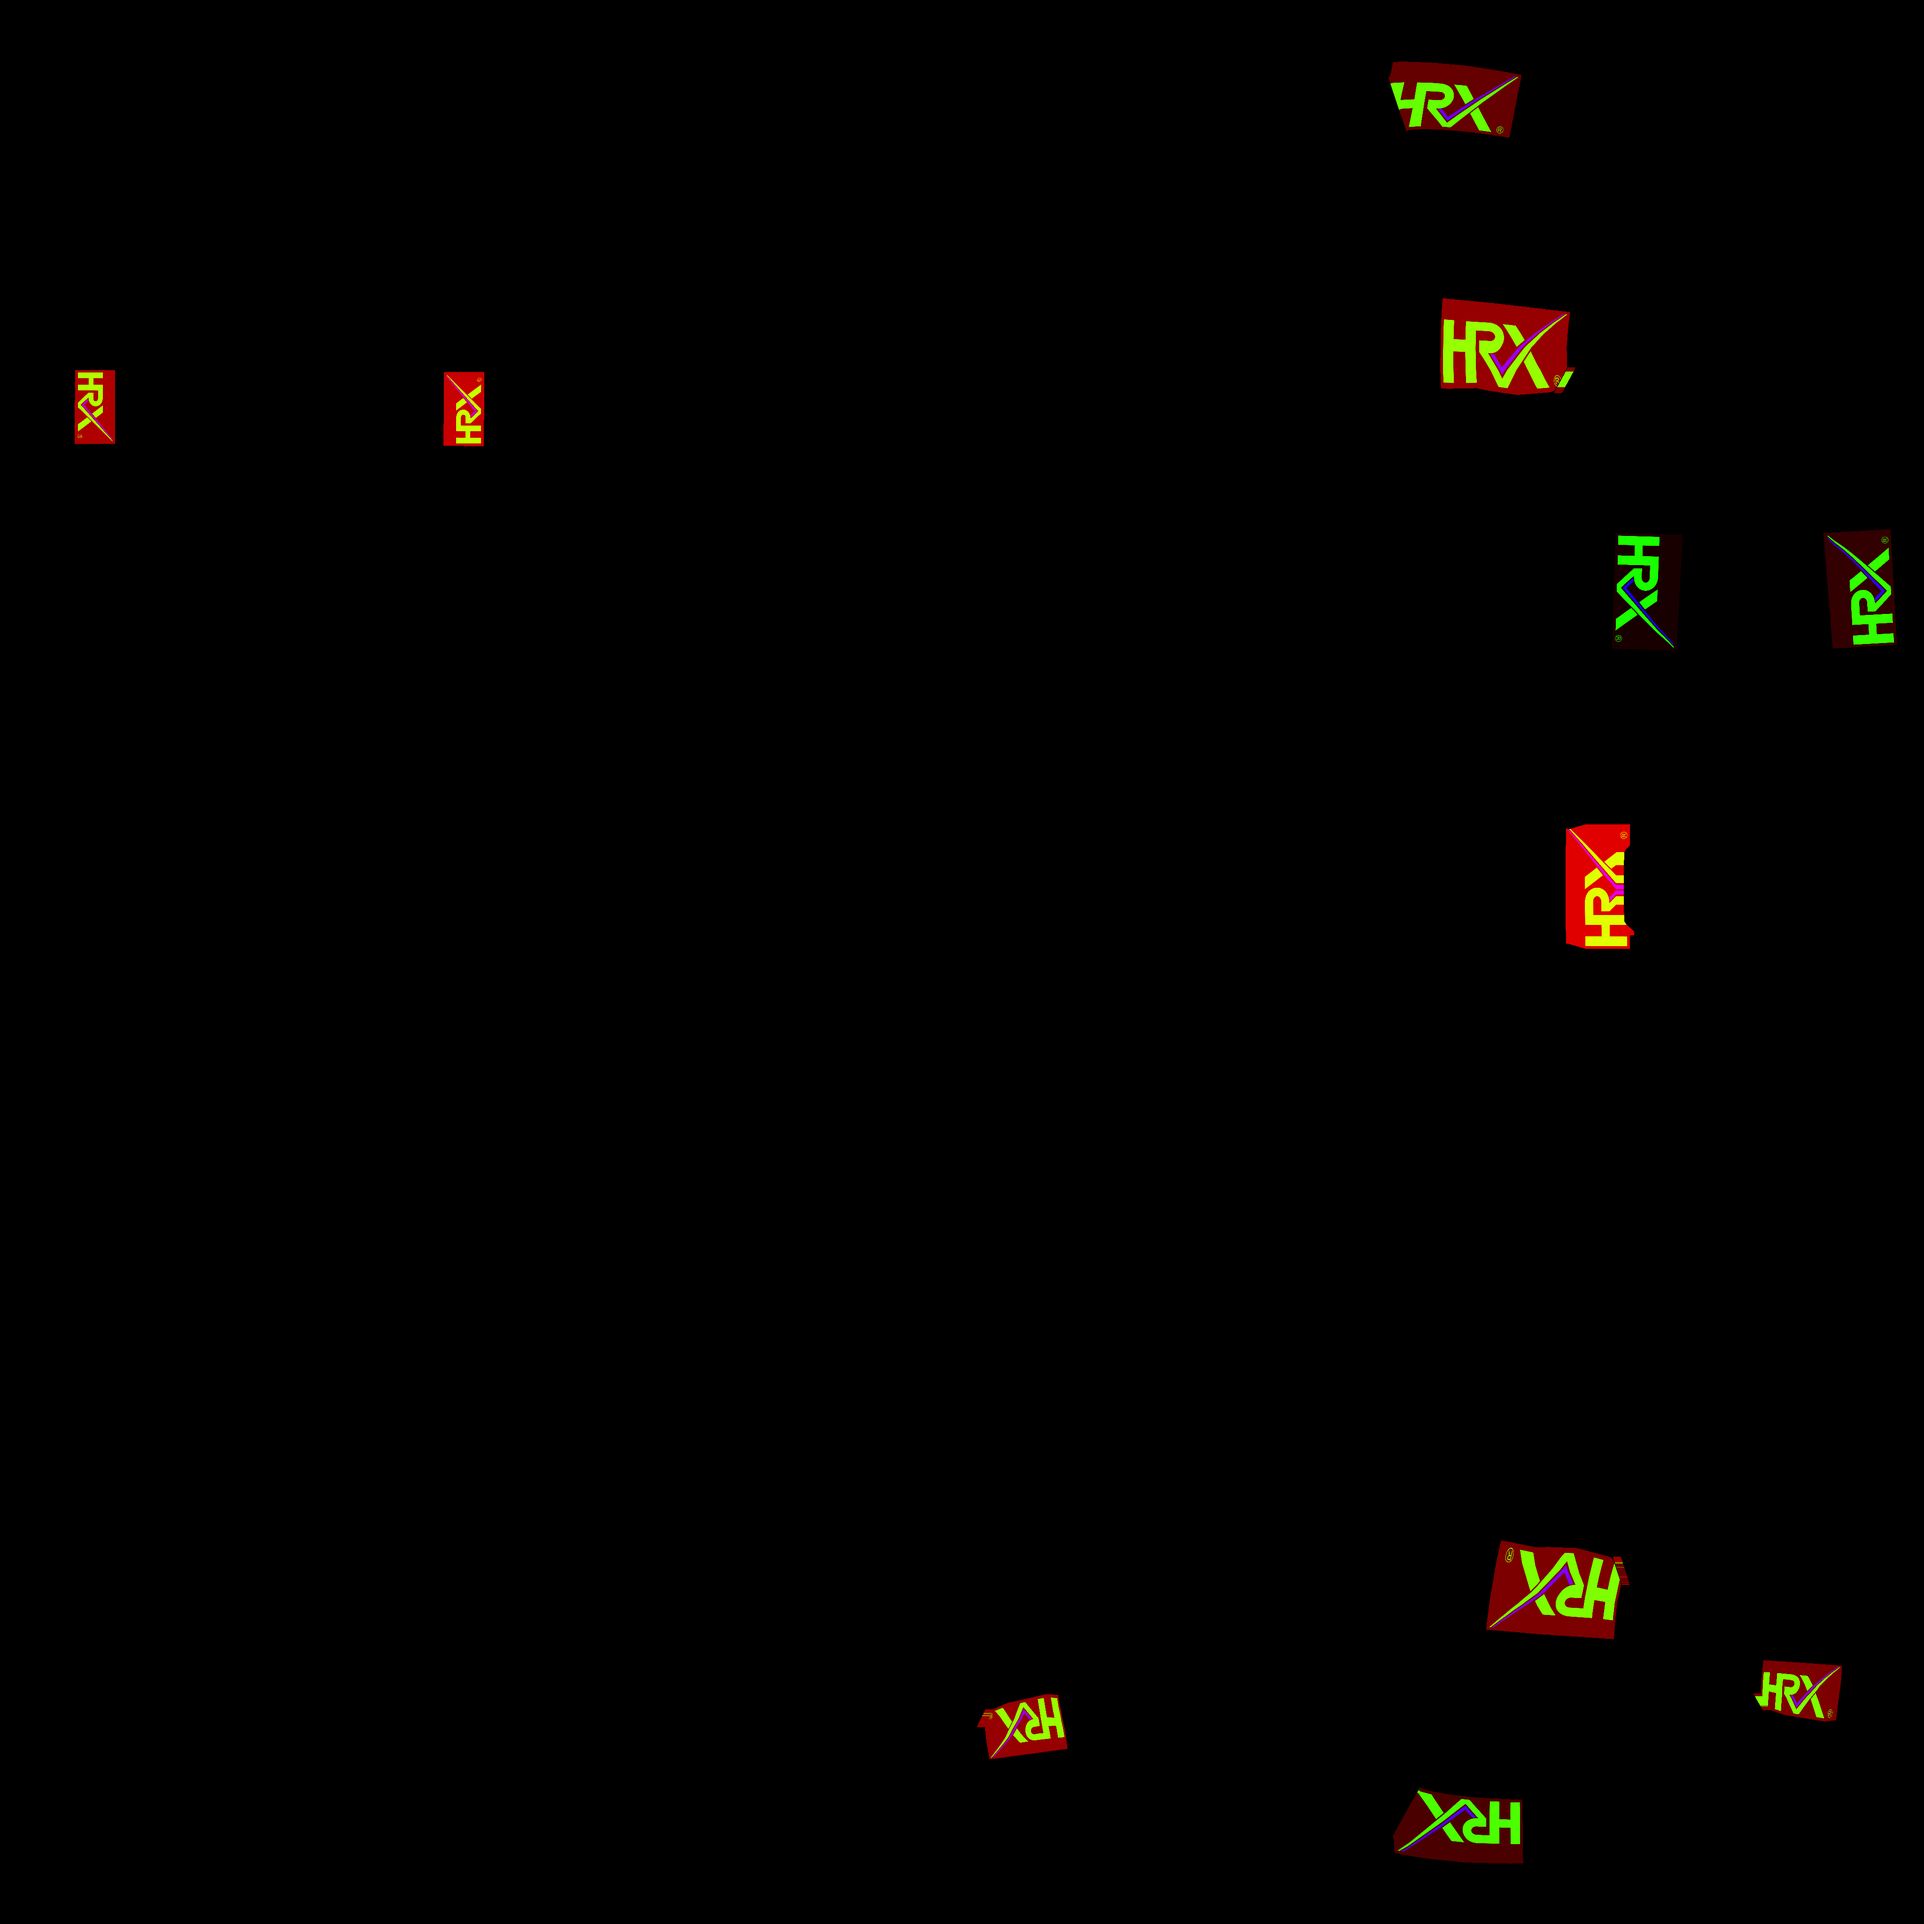
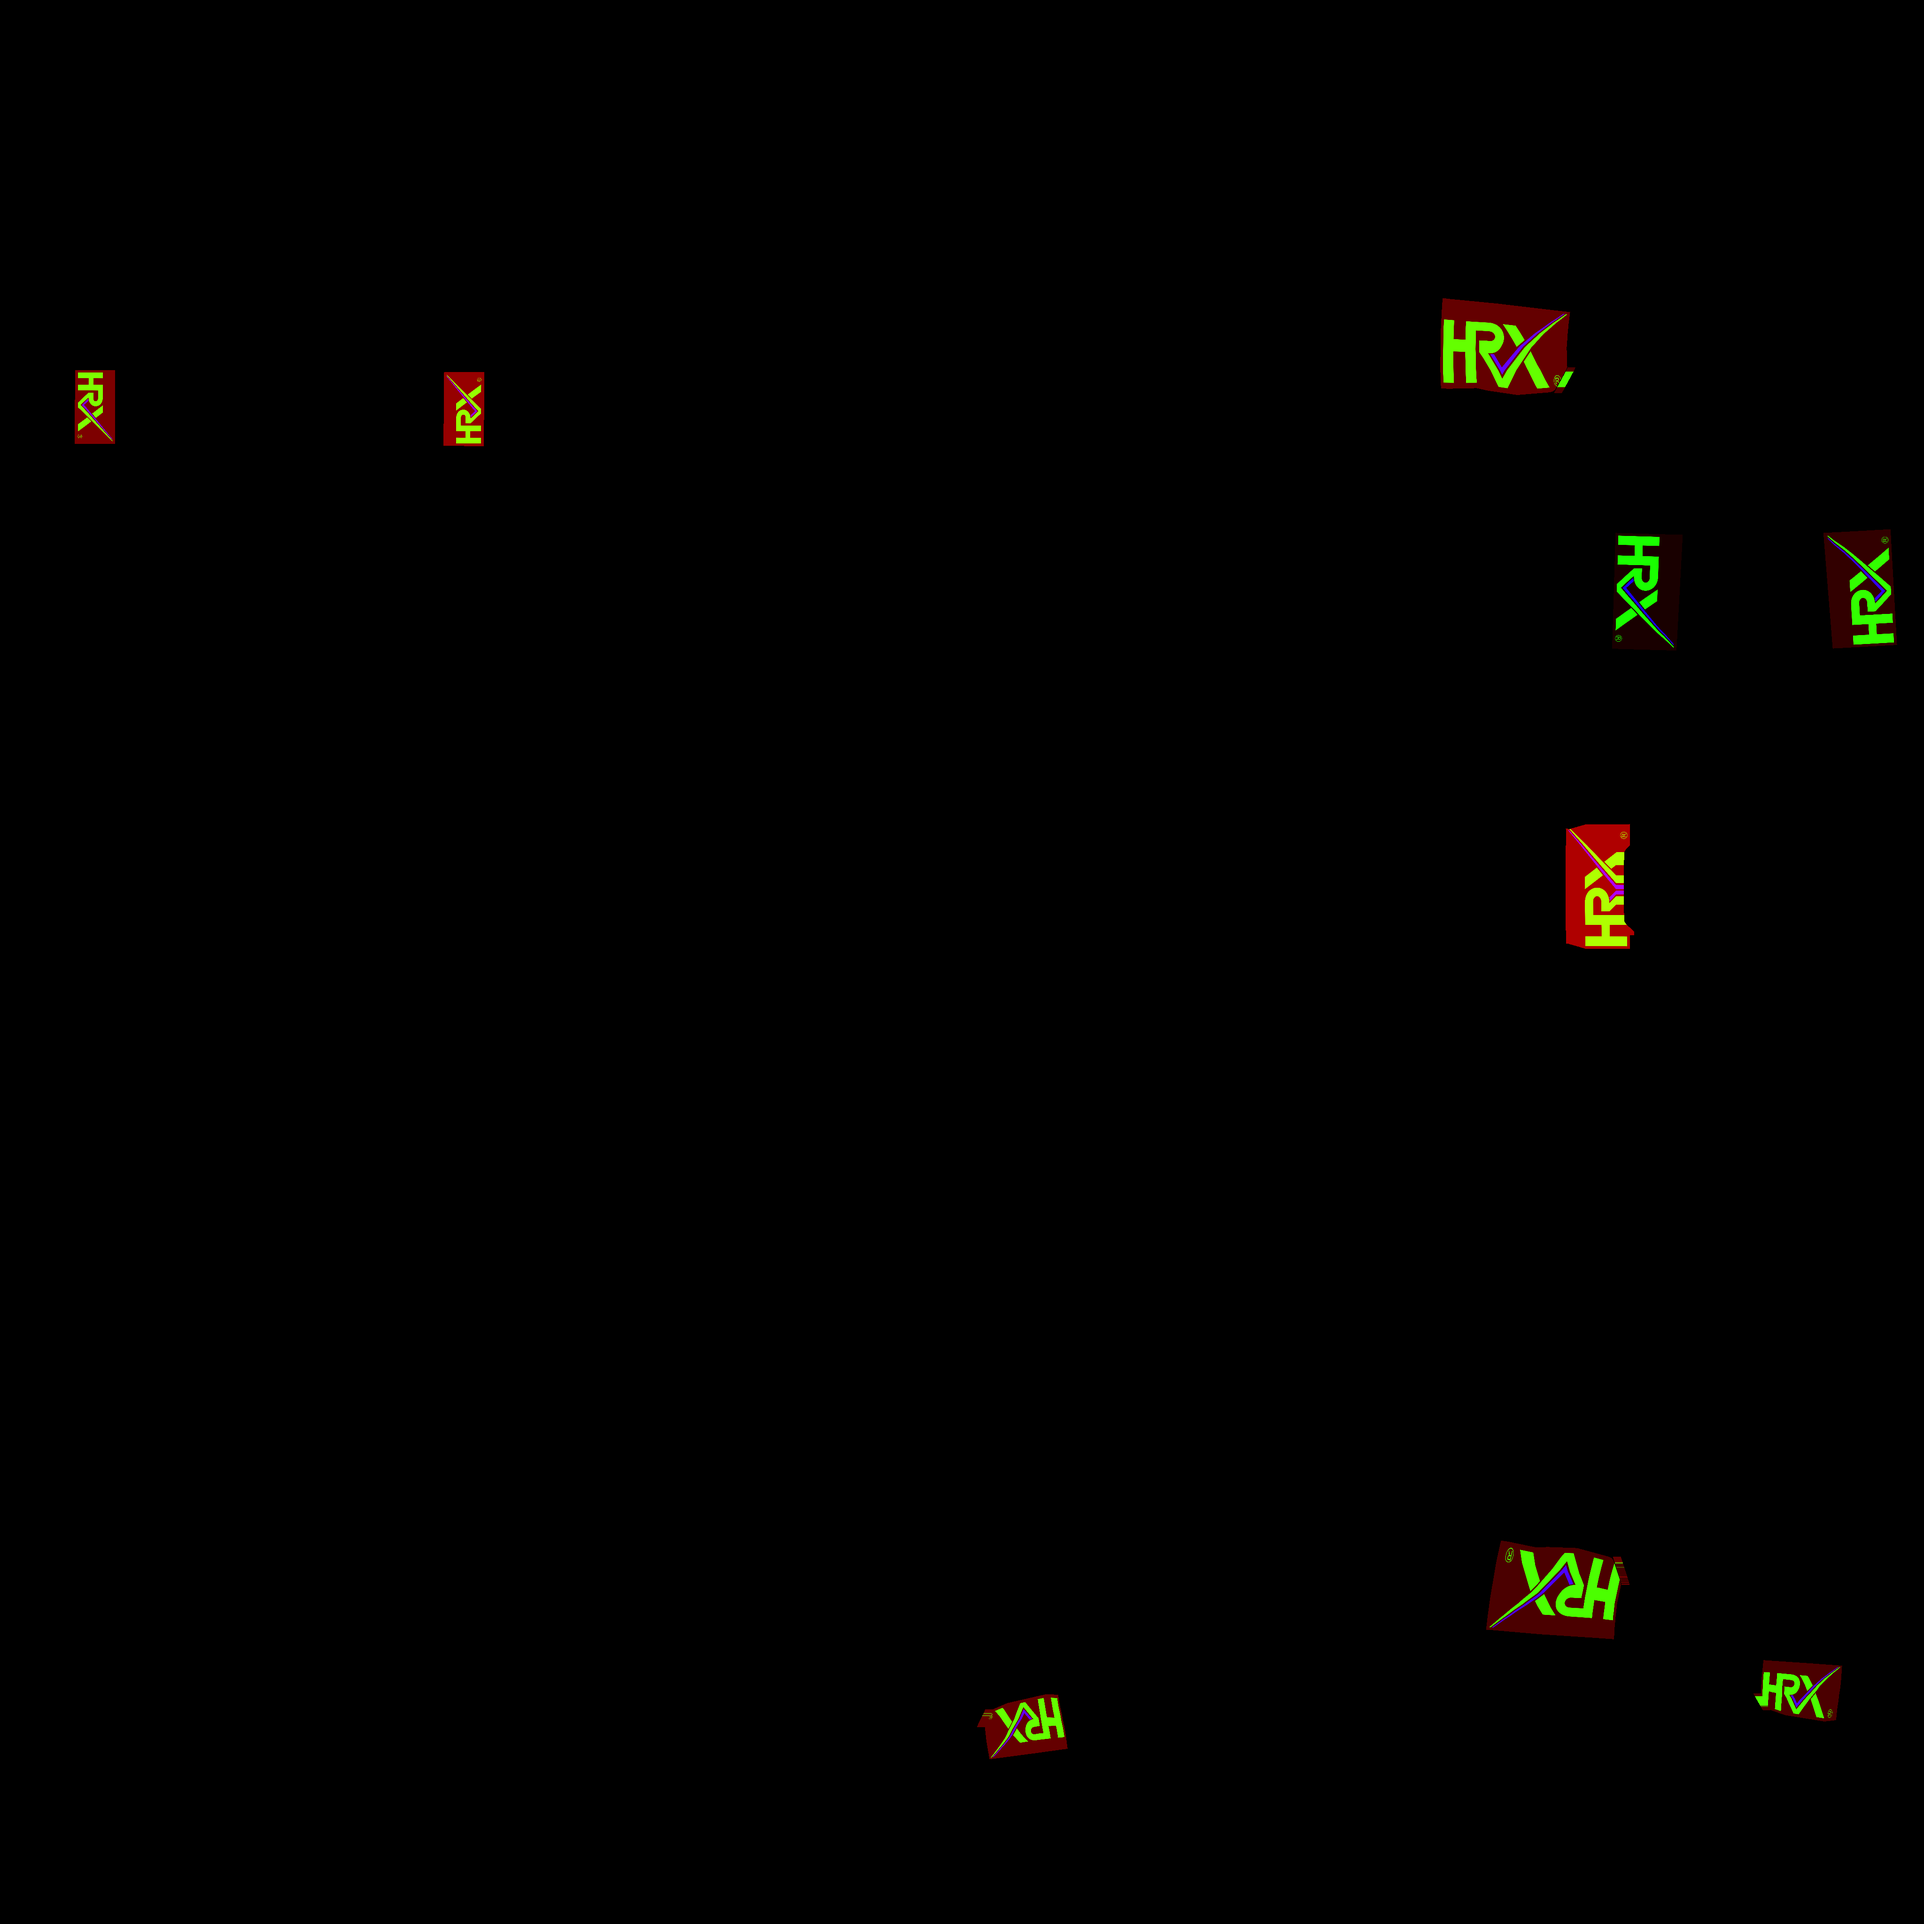
HRX: keep the blue foil tops F-only
No layout puts the partner logo on the foil tops any more. The default
layout is now Deck (pod sides + rear deck flanks, was Wing); Full drops
the foil spots too.

diff --git a/index.html b/index.html
@@ -112,7 +112,7 @@ const $ = id => document.getElementById(id);
 // Bump ASSETS (and the ?v= on racebird.glb) when a livery or the model changes:
 // vercel.json lets browsers cache these files for a day. (No ?v= on the .hdr:
 // model-viewer picks its loader from the file extension.)
-const ASSETS = '19';
+const ASSETS = '20';
 const VERSIONS = [
   { id:'wake',        tab:'01', label:'Pixel Wake',  desc:'A solid blue stern breaks forward into FSP pixel blocks behind a lime edge.' },
   { id:'telemetry',   tab:'02', label:'Telemetry',   desc:'White hull, a blue waterline sweep and the FSP ASCII hero across the nose.' },
@@ -450,8 +450,8 @@ async function setFinish(gold){                       // metallic satin pod whil
 }
 
 // ---------- partner logo (HRX): a UV mask made by livery-tools/sponsor.mjs, on by default ----------
-let sponsorOn = true, spLayout = 'wing', spStyle = 0;
-const SP_LAYOUTS = [['wing', 'Wing'], ['arms', 'Arms'], ['full', 'Full'], ['mini', 'Mini']];
+let sponsorOn = true, spLayout = 'deck', spStyle = 0;
+const SP_LAYOUTS = [['deck', 'Deck'], ['arms', 'Arms'], ['full', 'Full'], ['mini', 'Mini']];
 const SP_STYLES = [[0, 'Classic'], [1, 'Red'], [2, 'Mono']];
 const sponsors = {};                                  // layout -> { img, spots, ready, loading }
 function loadSponsor(l){

diff --git a/README.md b/README.md
@@ -39,9 +39,9 @@ lime texture recoloured live on the GPU). Every visit starts on Blue · Lime.
 **Partner logo:** the HRX logo sits where F1's most-seen sponsor spots map onto the boat. The
 Partner switch in the colourway panel turns it on and off (on by default) and picks:
 
-- **Layout**: Wing (cockpit pod sides, foil tops beside the F, rear deck flanks; default),
-  Arms (pod sides plus big on the dark foil arms), Full (every spot plus one on the hump behind
-  the cockpit) or Mini (pod sides only).
+- **Layout**: Deck (cockpit pod sides and rear deck flanks; default), Arms (pod sides plus big
+  on the dark foil arms), Full (every spot plus one on the hump behind the cockpit) or Mini (pod
+  sides only). The blue foil tops carry only the FSP F.
 - **Logo**: Classic (light parts white on dark ground and ink on light ground, judged per logo,
   red tick stays red), Red (the whole logo in HRX red) or Mono (the whole logo white or ink).
 
